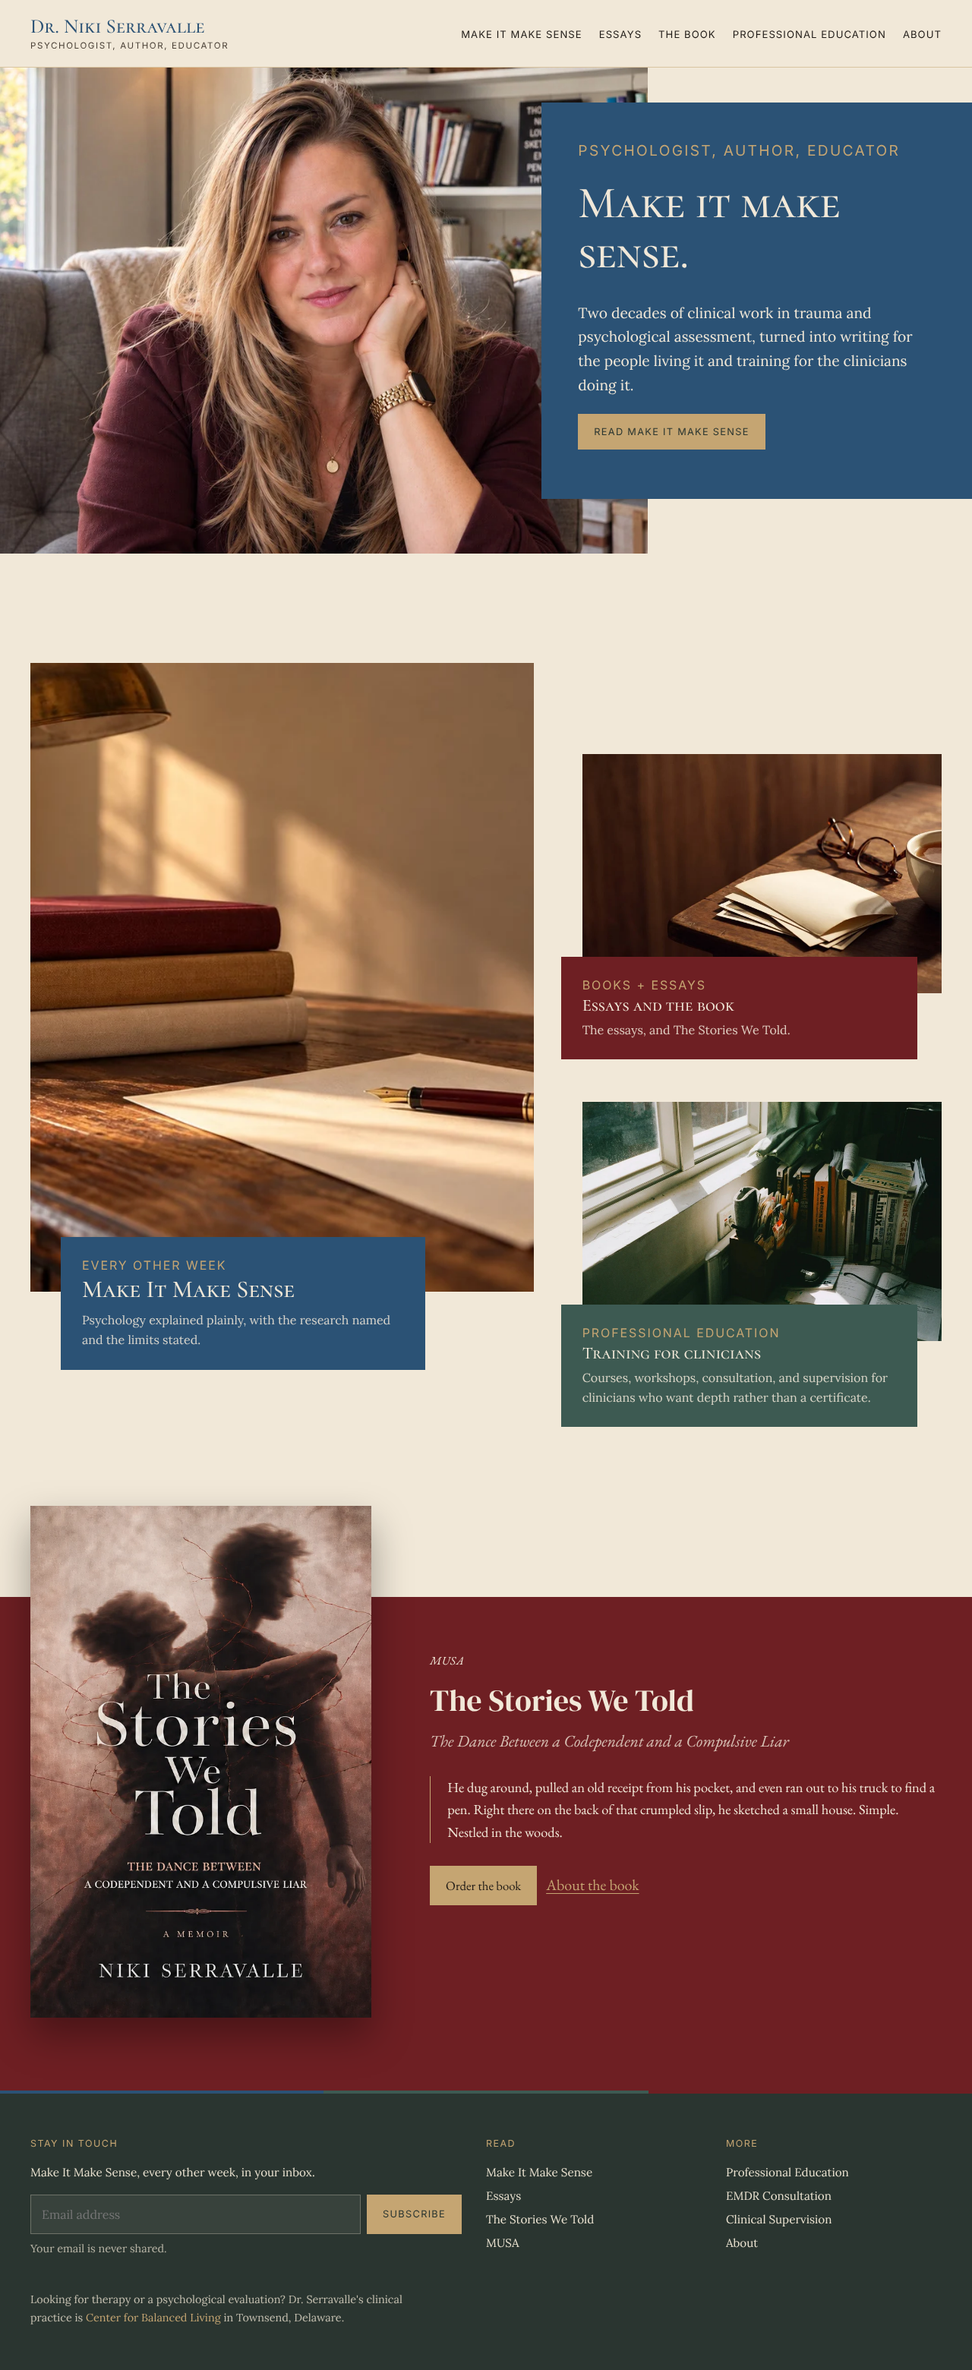
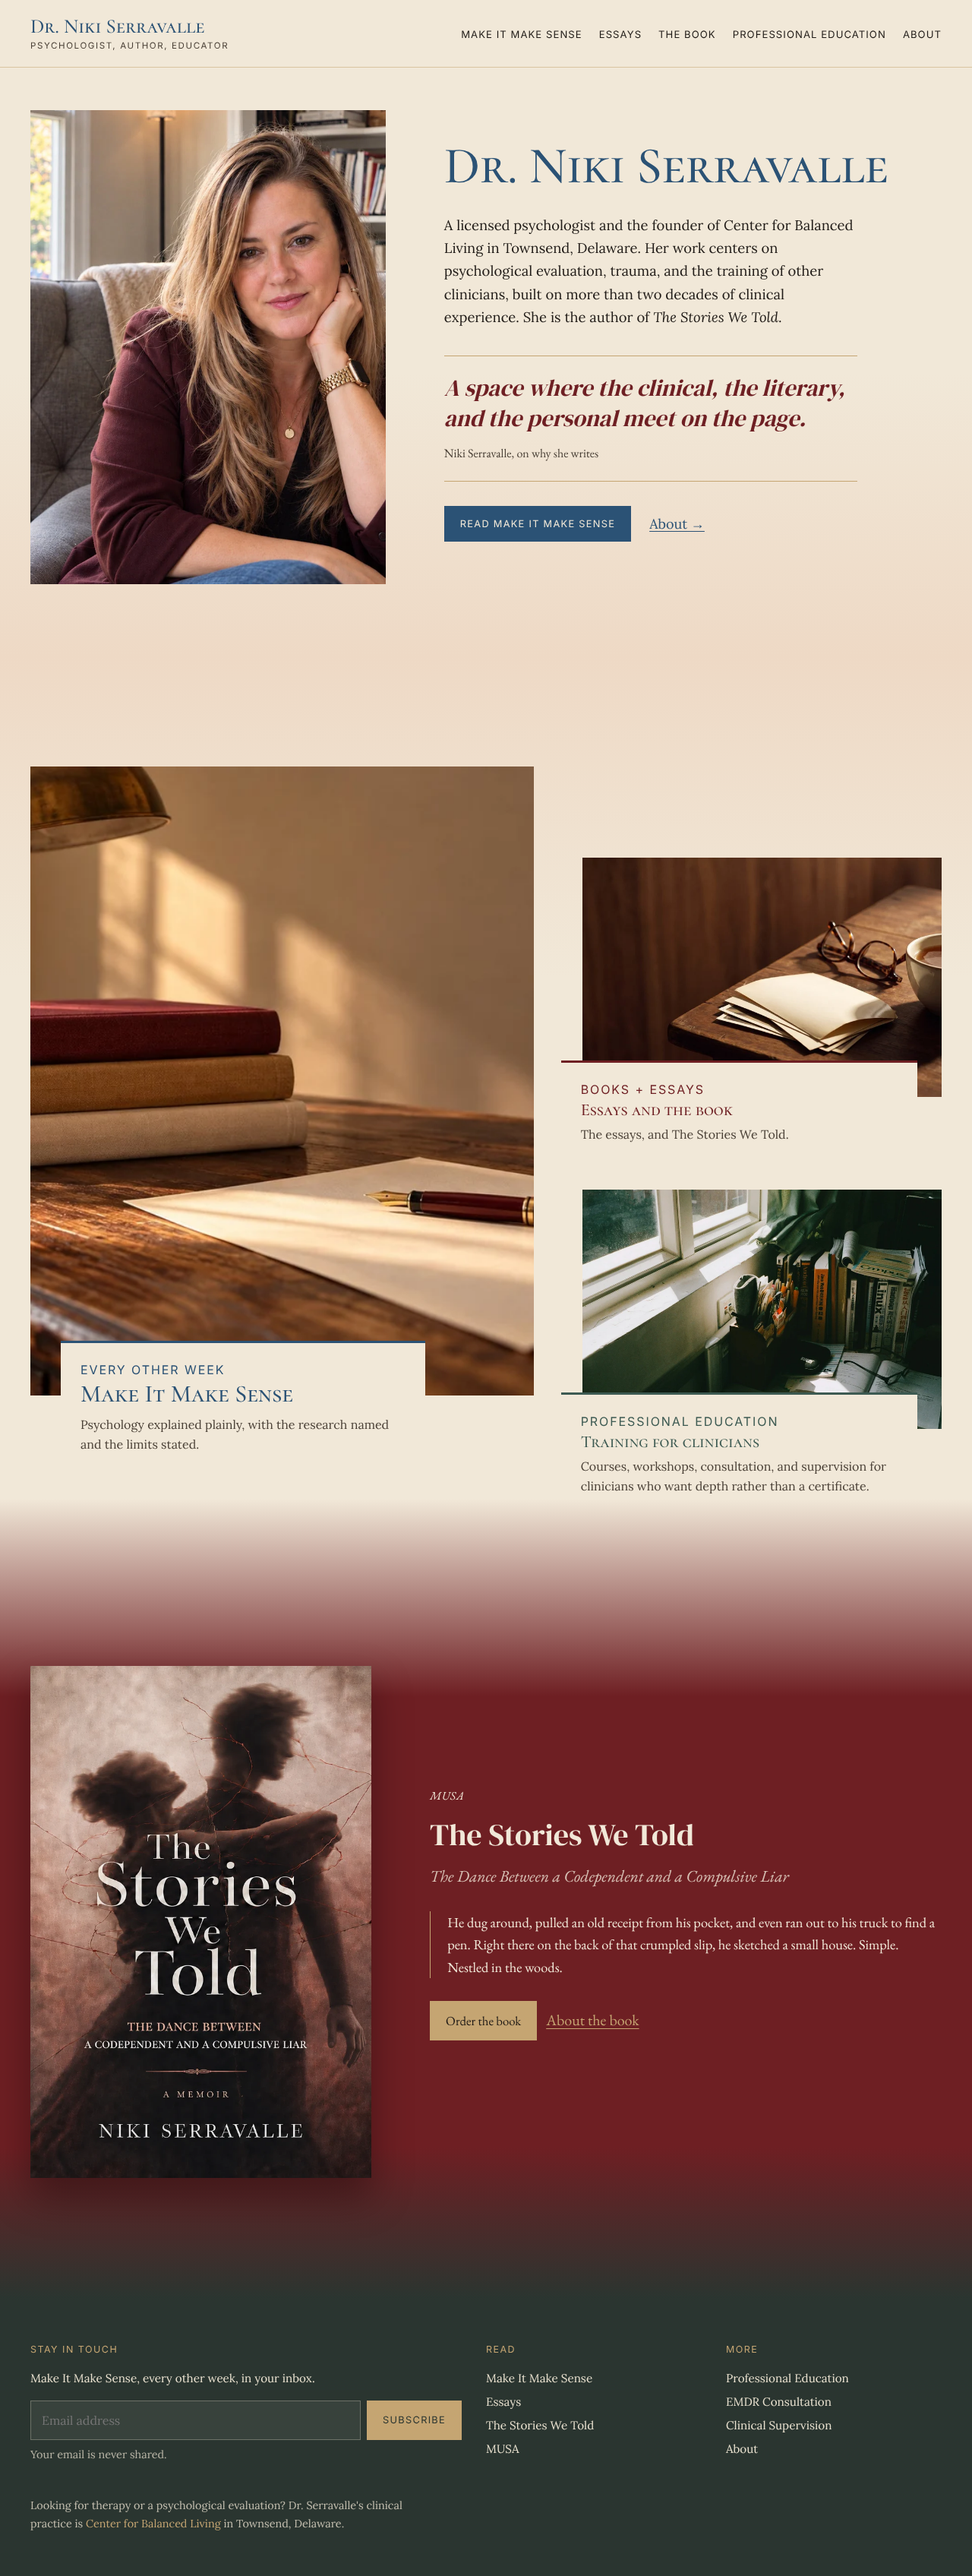
drserravalle theme: intro hero (portrait, bio, why) and tonal ombre
New drs-intro section replaces the hero on the home page: Niki's portrait,
cropped so the shelf signs fall outside the frame, a brief bio and a quote.
Sections fade into each other with long, low-contrast gradients.

Claude-Session: https://claude.ai/code/session_01PNTKRciZknXhVWVEiJrrtz

diff --git a/drserravalle/theme/assets/drs.css b/drserravalle/theme/assets/drs.css
@@ -319,3 +319,25 @@ p { margin: 0 0 1.1em; }
 .door h3 { color: var(--head); }
 .door p { color: var(--muted); }
 .blk.book-band { margin-top: 240px; }
+
+/* Intro hero and ombre (Niki, 12 Nov): the hero is Niki, a brief bio and her why.
+   Sections fade into each other in long, low-contrast tonal ombre. No hard edges. */
+.intro { background: linear-gradient(180deg, var(--bone) 0%, var(--bone) 52%, var(--sand) 100%); padding: 56px 0 96px; }
+.intro__grid { display: grid; grid-template-columns: 5fr 7fr; gap: clamp(32px, 6vw, 96px); align-items: center; }
+.intro__img { margin: 0; aspect-ratio: 3 / 4; overflow: hidden; background: var(--sand); }
+.intro__img img { width: 100%; height: 100%; object-fit: cover; }
+.intro__copy h1 { color: var(--cobalt); margin-bottom: .35em; }
+.intro__bio { font-size: 1.15rem; max-width: 34rem; color: var(--ink); }
+.intro__quote { margin: 36px 0 32px; padding: 22px 0; border-top: 1px solid var(--ochre); border-bottom: 1px solid var(--ochre); max-width: 34rem; }
+.intro__quote p { font-family: 'DM Serif Display', Georgia, serif; font-style: italic; font-size: clamp(1.5rem, 2.4vw, 2rem); line-height: 1.3; color: var(--oxblood); margin: 0 0 10px; }
+.intro__quote cite { font-family: 'EB Garamond', Georgia, serif; font-style: normal; font-size: 1rem; color: var(--walnut); }
+.intro__links { display: flex; gap: 24px; align-items: center; flex-wrap: wrap; }
+.intro__links .btn { background: var(--cobalt); border-color: var(--cobalt); color: var(--bone); }
+@media (max-width: 860px) { .intro__grid { grid-template-columns: 1fr; } .intro__img { max-width: 420px; } }
+
+.tpl-index .doors { background: linear-gradient(180deg, var(--sand) 0%, var(--bone) 38%, var(--bone) 100%); margin: 0; padding-top: 112px; padding-bottom: 0; width: 100%; padding-inline: max(16px, calc((100% - 1200px) / 2)); }
+.blk.book-band { margin-top: 0; padding-top: 220px; background: linear-gradient(180deg, var(--bone) 0, var(--oxblood) 260px, var(--oxblood) calc(100% - 200px), var(--deep-ink) 100%); }
+.book-band .book__cover { margin-top: 0; }
+.book-band .book > div:last-child { padding-top: 0; }
+.book-band .book { align-items: center; padding-bottom: 160px; }
+.site-foot { border-top: 0; border-image: none; }

diff --git a/drserravalle/CUTOVER.md b/drserravalle/CUTOVER.md
@@ -135,9 +135,13 @@ imported list and new signups land in the same segment.
       feeds and admin. Pick one.
 
 - [ ] `Dr_Niki_MUSA.jpg` (office portrait, used as the home hero) shows a shelf sign
-      reading "...low-vibin' sketchy-ass energy..." above her shoulder. Replace, retouch
-      or crop before the home page goes public. Check other photos taken in the office
+      reading "...low-vibin' sketchy-ass energy..." above her shoulder, plus "#Believe" and
+      "Be Here Now" signs. The home hero crops them out (waist-up crop, set in the intro
+      section). A retouched file is still better before the photo is used anywhere else. Check other photos taken in the office
       for the same sign.
+
+- [ ] Home hero quote is a stand-in from MUSA "Why I Write". Replace with Niki's own
+      line about her why for the whole site.
 
 ## Cutover day, 1 December (in this order)
 
